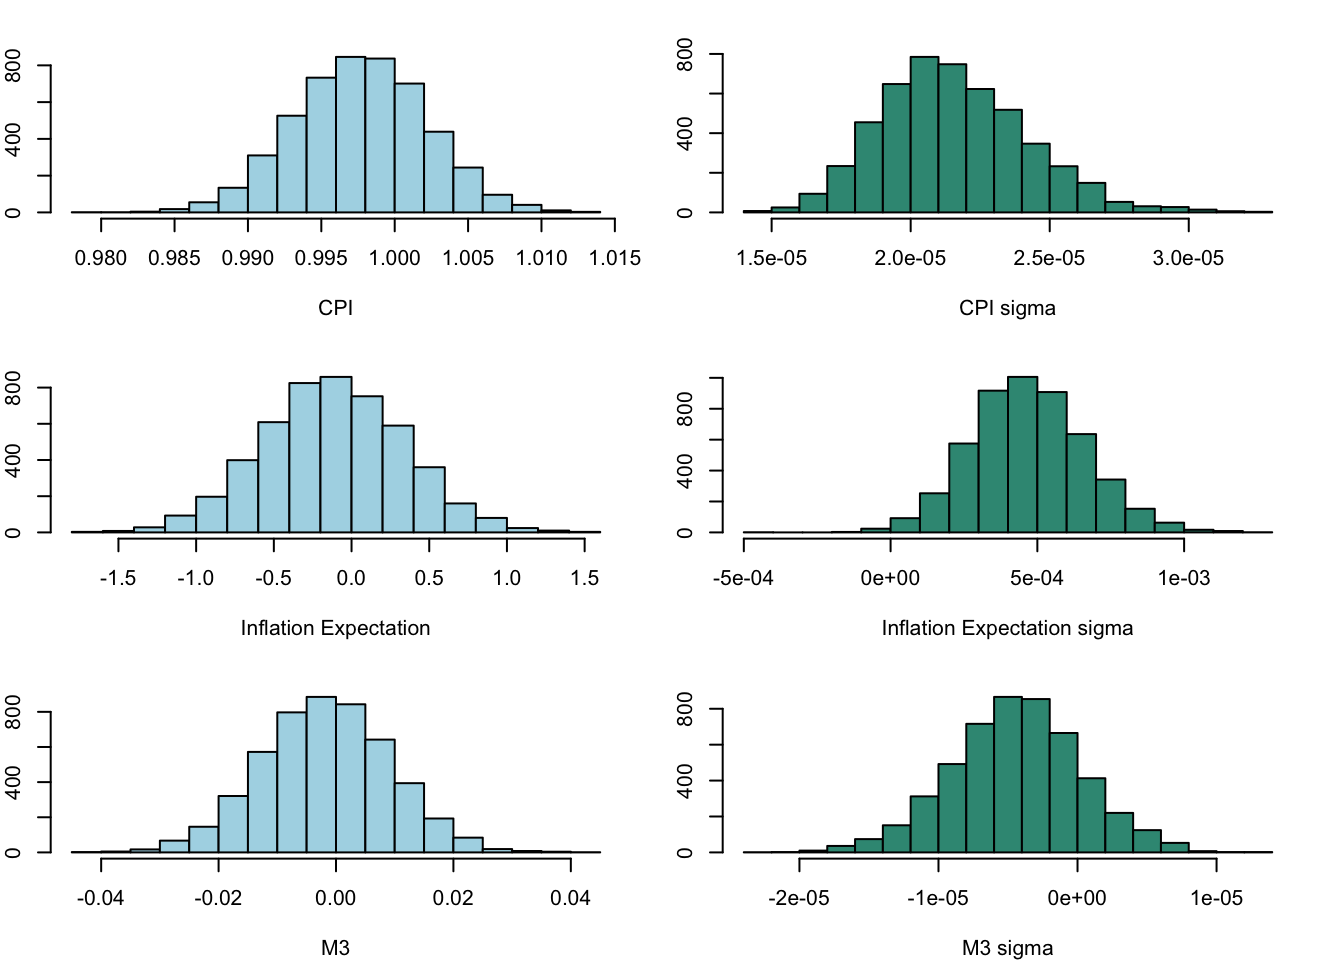
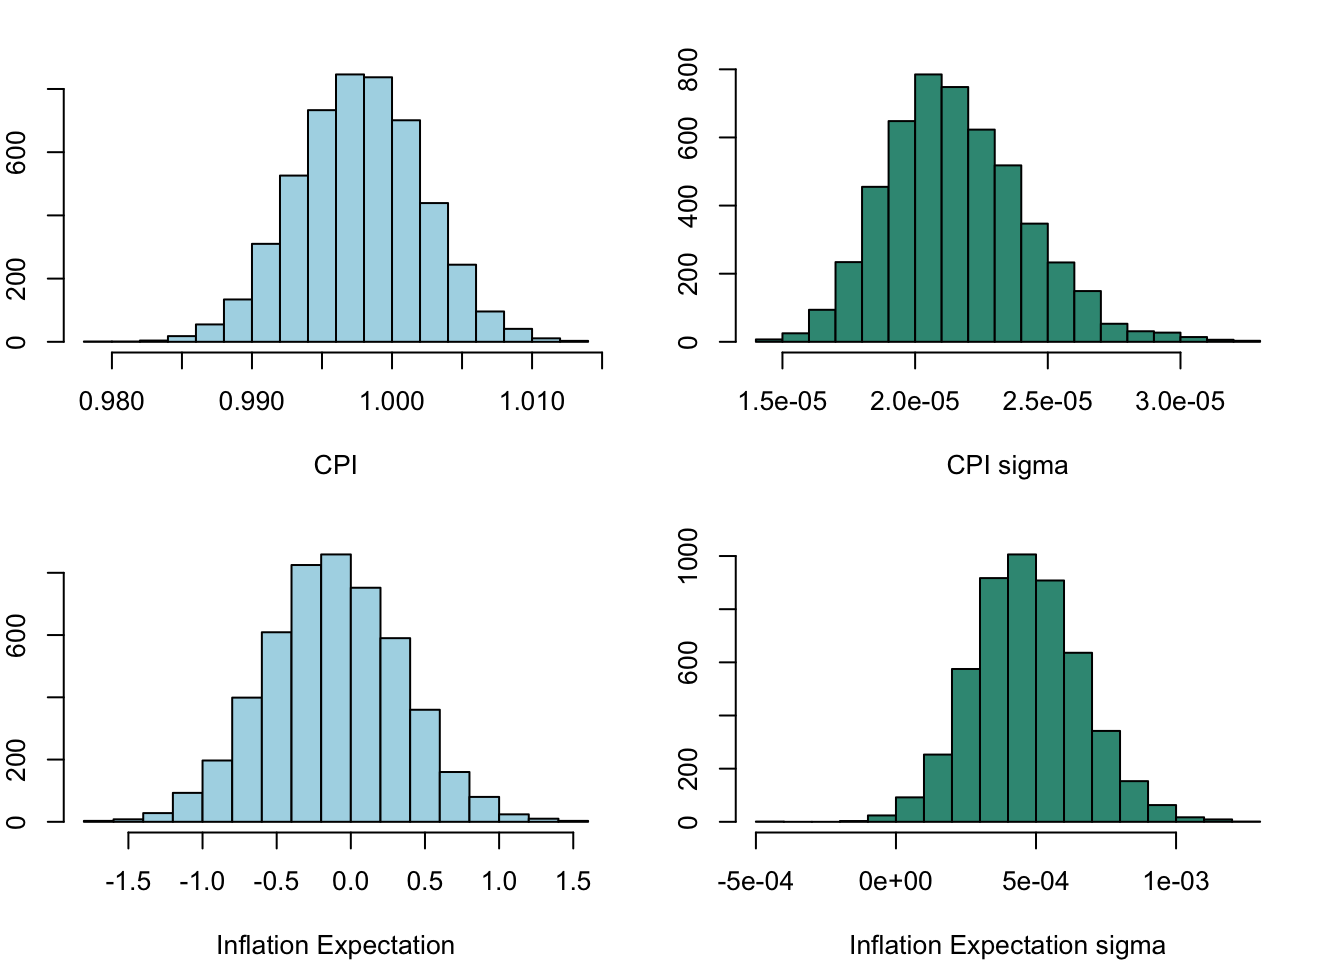
update web

diff --git a/docs/index.html b/docs/index.html
@@ -259,7 +259,7 @@ div.csl-indent {
 </ol>
 <p>It affects the price of imports and exports, contributing to inflation.</p></li>
 </ul>
-<p>Following Table shows the correlation between CPI and other variables.</p>
+<p>Following Figure shows the correlation between CPI and other variables.</p>
 <p>Despite the low direct correlation between inflation expectations and CPI, inflation expectations may more closely reflect concerns about core inflation, which excludes volatile items like food and energy, whereas the CPI includes all items. If the trends between core inflation and overall inflation differ, this discrepancy can reduce the correlation between inflation expectations and the CPI. However, inflation expectations provide additional insight into how future economic conditions are perceived by consumers, businesses, and investors. This forward-looking perspective is important as it might influence economic decisions that are not immediately apparent through current CPI data.</p>
 <p>Exchange rate fluctuations are typically sensitive to immediate market sentiment and short-term capital flows, whereas the CPI, as a measure of past price level changes, often exhibits a lag in responding to market changes. Even if the correlation between the CPI and the AUD/USD exchange rate is low, including this variable can help researchers understand economic changes from a broader perspective. For example, changes in the exchange rate can indirectly affect domestic price levels through the cost of imports, especially in open economies.</p>
 <p>It should be noted that the unemployment rate exhibits a weak correlation with the CPI. This could be attributed to the Phillips Curve, which illustrates a short-term inverse relationship between unemployment and inflation. Over the long term, however, this correlation may diminish due to various influencing factors. For instance, following COVID, the inflation rate in the United States has been continuously rising due to the bankruptcy crisis among small and medium-sized enterprises (SMEs), part of which is attributed to the inadequate supply of export goods produced by SMEs leading to a decline in export volumes, thereby driving up the domestic inflation rate in the US <span class="citation" data-cites="kalemli-ozcan2020">(<a href="#ref-kalemli-ozcan2020" role="doc-biblioref">Kalemli-Ozcan et al. 2020</a>)</span>. This impact can be seen as an indirect effect of rising unemployment rates on inflation. Therefore, despite the weak correlation between unemployment rate and CPI, it is still important to include it in the model for a comprehensive analysis.</p>
@@ -501,6 +501,8 @@ E &amp;=
 <h2 class="anchored" data-anchor-id="estimation-procedure-and-algorithm">Estimation Procedure and Algorithm</h2>
 <section id="basic-model" class="level3">
 <h3 class="anchored" data-anchor-id="basic-model">Basic Model</h3>
+<section id="prior-distribution-and-posterier-distribution-specified" class="level4">
+<h4 class="anchored" data-anchor-id="prior-distribution-and-posterier-distribution-specified">Prior Distribution and Posterier Distribution Specified</h4>
 <p>The basic model based on the natural-conjugate prior distribution, which is specified as a matrix normal inverse Wishart distribution<span class="citation" data-cites="wozniak2016">(<a href="#ref-wozniak2016" role="doc-biblioref">Woźniak 2016</a>)</span>. Minnesota prior with some stylised facts about the macroeconomic time series, since <span class="math inline">\(lcpi_t\)</span> and <span class="math inline">\(lm_t\)</span> are unit root non-stationary and other all variables are stationary, is applied to form the specifications of the prior distribution.</p>
 <p>The estimation procedures to draw from the posterior follows the steps below:</p>
 <p><strong>Step 1</strong>: Prior distribution is presented below. We will specify <span class="math inline">\(\underline{A}\)</span>, <span class="math inline">\(\underline{V}\)</span>, <span class="math inline">\(\underline{S}\)</span> and <span class="math inline">\(\underline{v}\)</span>.</p>
@@ -604,7 +606,10 @@ p(\Sigma|Y,X) &amp;\sim \mathcal{IW}_{N}(\overline{S}, \overline{v})
 <span id="cb1-24"><a href="#cb1-24" aria-hidden="true" tabindex="-1"></a>    <span class="fu">return</span>(output)</span>
 <span id="cb1-25"><a href="#cb1-25" aria-hidden="true" tabindex="-1"></a>}</span></code><button title="Copy to Clipboard" class="code-copy-button"><i class="bi"></i></button></pre></div>
 </div>
-<p>Below are the trace plots and histograms posterior to draws on <span class="math inline">\(A\)</span> and <span class="math inline">\(\Sigma\)</span>. It is clear from the trace plots that CPI has a very strong perfect positive correlation with its own preceding period, which is consistent with the previous distribution design and the anticipation of integration at 1.</p>
+</section>
+<section id="function-applying" class="level4">
+<h4 class="anchored" data-anchor-id="function-applying">Function Applying</h4>
+<p>Below are the histograms posterior to draws on <span class="math inline">\(A\)</span> and <span class="math inline">\(\Sigma\)</span>. It is clear that CPI has a very strong perfect positive correlation with its own preceding period, which is consistent with the previous distribution design and the anticipation of integration at 1.</p>
 <div class="cell" data-layout-align="center">
 <div class="cell-output-display">
 <div class="quarto-figure quarto-figure-center">
@@ -614,11 +619,59 @@ p(\Sigma|Y,X) &amp;\sim \mathcal{IW}_{N}(\overline{S}, \overline{v})
 </div>
 </div>
 </div>
-<p>Figure 6 Model Simulation of Basic Model</p>
+</section>
+<section id="function-proofing" class="level4">
+<h4 class="anchored" data-anchor-id="function-proofing">Function Proofing</h4>
+<p>Consider Bi-variate Gaussian random walk process:</p>
+<p><span class="math display">\[
+\left[ \begin{matrix}
+X_{t+1} \\ Y_{t+1}
+\end{matrix} \right]
+=
+\left[ \begin{matrix}
+X_{t} \\ Y_{t}
+\end{matrix} \right]
++
+\left[ \begin{matrix}
+\epsilon^{(1)}_{t+1} \\ \epsilon^{(2)}_{t+1}
+\end{matrix} \right] \\
+\epsilon^{(1)}_{t+1} \sim \mathcal{N}(0,1) \\
+\epsilon^{(2)}_{t+1} \sim \mathcal{N}(0,1)
+\]</span></p>
+<div class="cell" data-layout-align="center">
+<div class="cell-output-display">
+<div class="table-responsive">
+<table class="table table-striped table-hover table-bordered table-sm small" data-quarto-postprocess="true">
+<thead>
+<tr class="header">
+<th data-quarto-table-cell-role="th" style="text-align: center; position: sticky; top: 0; background-color: #FFFFFF;"></th>
+<th data-quarto-table-cell-role="th" style="text-align: center; position: sticky; top: 0; background-color: #FFFFFF;">Simulation Parameter</th>
+</tr>
+</thead>
+<tbody>
+<tr class="odd">
+<td style="text-align: center;">Constant term</td>
+<td style="text-align: center;">-0.070200</td>
+</tr>
+<tr class="even">
+<td style="text-align: center;">1 lag</td>
+<td style="text-align: center;">0.995445</td>
+</tr>
+</tbody>
+</table>
+</div>
+
+
+</div>
+</div>
+<p>Table 2 Basic Model Proofing Simulation</p>
+</section>
 </section>
 <section id="model-extension" class="level3">
 <h3 class="anchored" data-anchor-id="model-extension">Model Extension</h3>
 <p>The model extension base on a hierarchical model. The gamma distribution on the Minnesota shrinkage parameter lambda <span class="math inline">\(\lambda\)</span> is introduced to adjust kappa <span class="math inline">\(\kappa\)</span>.</p>
+<section id="prior-distribution-and-posterier-distribution-specified-1" class="level4">
+<h4 class="anchored" data-anchor-id="prior-distribution-and-posterier-distribution-specified-1">Prior Distribution and Posterier Distribution Specified</h4>
 <p><strong>Step 1</strong>: Prior distribution is presented below. We will specify <span class="math inline">\(\underline{A}\)</span>, <span class="math inline">\(\underline{V}\)</span>, <span class="math inline">\(\underline{S}\)</span>, <span class="math inline">\(\underline{v}\)</span> by Minnesota shrinkage parameter lambda <span class="math inline">\(\lambda\)</span>.</p>
 <p><span class="math display">\[
 \begin{align}
@@ -774,6 +827,9 @@ p(x|a,b,p) \propto x^{p-1}exp \left\{\frac{-(ax+\frac{b}{x})}{2} \right\}
 <span id="cb2-37"><a href="#cb2-37" aria-hidden="true" tabindex="-1"></a>    <span class="fu">return</span>(output)</span>
 <span id="cb2-38"><a href="#cb2-38" aria-hidden="true" tabindex="-1"></a>}</span></code><button title="Copy to Clipboard" class="code-copy-button"><i class="bi"></i></button></pre></div>
 </div>
+</section>
+<section id="function-applying-1" class="level4">
+<h4 class="anchored" data-anchor-id="function-applying-1">Function Applying</h4>
 <p>By including the <span class="math inline">\(\lambda\)</span> in the variance specification of the prior mean A, it adds more variability than the basic model. As opposed to having a constant shrinkage level, variance of A for Extend model is non-constant. This modification produces noticeable effects on the CPI, whose coefficient now spans a wider range from 0.9 to 1.05 as opposed to the basic model’s 0.98 to 1.01.</p>
 <div class="cell" data-layout-align="center">
 <div class="cell-output-display">
@@ -795,6 +851,37 @@ p(x|a,b,p) \propto x^{p-1}exp \left\{\frac{-(ax+\frac{b}{x})}{2} \right\}
 </div>
 </div>
 <p>Figure 6 Model Simulation of Extend Model (lambda)</p>
+</section>
+<section id="function-proofing-1" class="level4">
+<h4 class="anchored" data-anchor-id="function-proofing-1">Function Proofing</h4>
+<div class="cell" data-layout-align="center">
+<div class="cell-output-display">
+<div class="table-responsive">
+<table class="table table-striped table-hover table-bordered table-sm small" data-quarto-postprocess="true">
+<thead>
+<tr class="header">
+<th data-quarto-table-cell-role="th" style="text-align: center; position: sticky; top: 0; background-color: #FFFFFF;"></th>
+<th data-quarto-table-cell-role="th" style="text-align: center; position: sticky; top: 0; background-color: #FFFFFF;">Simulation Parameter</th>
+</tr>
+</thead>
+<tbody>
+<tr class="odd">
+<td style="text-align: center;">Constant term</td>
+<td style="text-align: center;">-0.10790</td>
+</tr>
+<tr class="even">
+<td style="text-align: center;">1 lag</td>
+<td style="text-align: center;">0.99433</td>
+</tr>
+</tbody>
+</table>
+</div>
+
+
+</div>
+</div>
+<p>Table 3 Extend Model Proofing Simulation</p>
+</section>
 </section>
 </section>
 <section id="references" class="level2 unnumbered">
